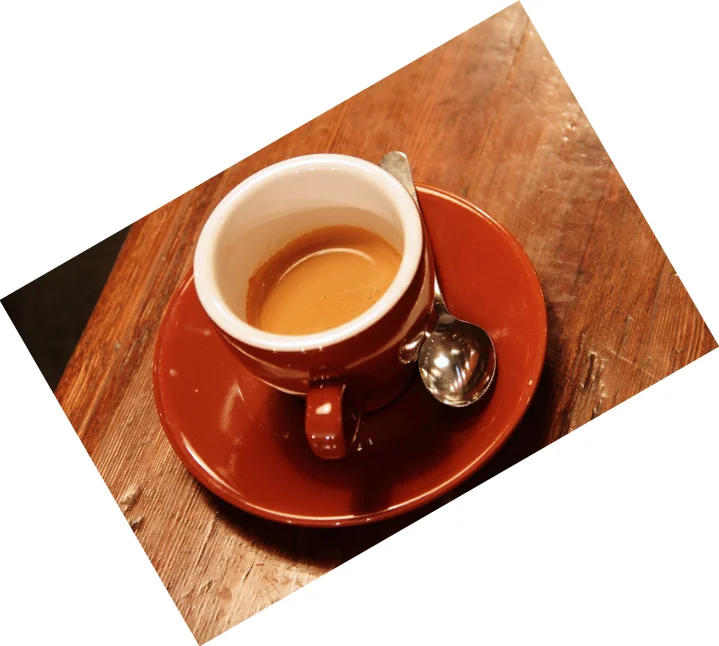
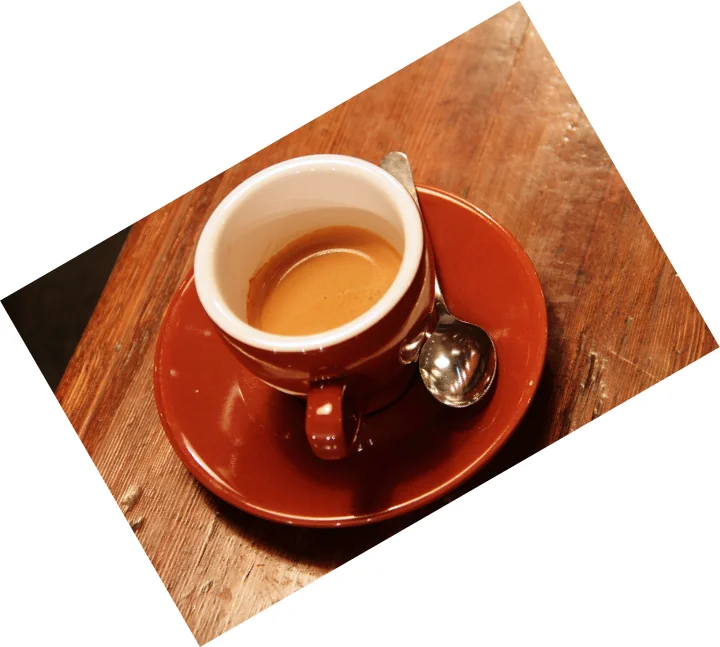
fix(pdi): corregir precision de la guia 1.3 detectada en revision
Revision propia del PR #114:
- cv2.rectangle incluye el punto final y el slicing no: el marco del
  recorte usaba (x2, y2) y quedaba 1 px fuera de la zona; ahora usa
  (x2 - 1, y2 - 1) y lo explica. Se regenera la imagen.
- Rotar sin perder esquinas truncaba el lienzo con int() y las puntas
  quedaban hasta 0,31 px fuera; se usa math.ceil (720 x 647) y se
  regenera la imagen.
- El paso 4 del ejercicio nombraba cafe_miniatura.png pero el codigo
  guarda cafe-miniatura.png.
- La pregunta sobre fotos verticales pedia adaptar una solucion que ya
  funciona sin cambios; se reformula.
- Se aclara que cv2.imread devuelve None, se agrega una nota sobre
  recortes fuera de los limites y se corrige el texto alternativo
  del recorte.

Imagenes regeneradas con OpenCV 4.10.0, la version minima del curso.

Refs #101

diff --git a/data/core/cursos/procesamiento-imagenes-python-opencv/lecciones/cap-1-3-transformaciones-geometricas-operaciones.md b/data/core/cursos/procesamiento-imagenes-python-opencv/lecciones/cap-1-3-transformaciones-geometricas-operaciones.md
@@ -26,6 +26,8 @@ print(f"Ancho: {ancho} px, alto: {alto} px, canales: {canales}")
 # Ancho: 600 px, alto: 400 px, canales: 3
 ```
 
+Para abreviar, los bloques siguientes omiten la comprobación de `None`. En tus programas conviene mantenerla, porque `cv2.imread` no lanza un error si no encuentra el archivo: devuelve `None`, y el fallo aparece recién en la línea siguiente, con un mensaje confuso.
+
 El origen de coordenadas `(0, 0)` está en la **esquina superior izquierda**. La coordenada `x` crece hacia la derecha y la `y` crece hacia abajo. Tené presente este detalle, porque OpenCV usa dos convenciones distintas según la función:
 
 | Contexto | Orden | Ejemplo |
@@ -120,9 +122,10 @@ taza = imagen[y1:y2, x1:x2].copy()
 print("Recorte:", taza.shape)  # (290, 260, 3)
 
 # Para visualizar qué se recortó, se marca la zona sobre una copia de la original.
-# cv2.rectangle recibe los puntos como (x, y).
+# cv2.rectangle recibe los puntos como (x, y) e incluye el punto final,
+# mientras que el slicing lo excluye: por eso se usa x2 - 1 e y2 - 1.
 marcada = imagen.copy()
-cv2.rectangle(marcada, (x1, y1), (x2, y2), (0, 255, 0), 3)
+cv2.rectangle(marcada, (x1, y1), (x2 - 1, y2 - 1), (0, 255, 0), 3)
 
 cv2.imwrite("cafe-zona-recorte.png", marcada)
 cv2.imwrite("cafe-recorte-taza.png", taza)
@@ -134,9 +137,11 @@ cv2.imwrite("cafe-recorte-taza.png", taza)
 
 **Después:** el recorte de 260 × 290 px.
 
-![Recorte que muestra solo la taza de café](/static/media/cursos/pdi/cafe-recorte-taza.webp)
+![Recorte centrado en la taza de café, con parte del plato y de la cuchara](/static/media/cursos/pdi/cafe-recorte-taza.webp)
 
 > **¿Por qué `.copy()`?** El slicing de NumPy no crea una imagen nueva: devuelve una *vista* que comparte memoria con la original. Si dibujás sobre un recorte sin `.copy()`, también modificás la imagen original. Usá `.copy()` cada vez que vayas a editar el recorte por separado.
+
+> **Recortes fuera de los límites.** NumPy no avisa si el rango se sale de la imagen: `imagen[300:500, 500:700]` devuelve un recorte de 100 × 100 px en lugar de 200 × 200, y un índice negativo cuenta desde el final. Si las coordenadas se calculan (por ejemplo, alrededor de un punto), limitálas antes de recortar con `x1 = max(0, x1)` y `x2 = min(ancho, x2)`, y lo mismo en `y`, y comprobá el `shape` del resultado.
 
 ### Rotación con matrices afines
 
@@ -163,9 +168,11 @@ cv2.imwrite("cafe-rotada.png", rotada)
 
 #### Rotar sin perder las esquinas
 
-Para conservar toda la imagen hay que calcular un lienzo más grande y desplazar la matriz para que el resultado quede centrado en él. El nuevo ancho y el nuevo alto salen del seno y el coseno del ángulo, que ya están dentro de la matriz:
+Para conservar toda la imagen hay que calcular un lienzo más grande y desplazar la matriz para que el resultado quede centrado en él. El nuevo ancho y el nuevo alto salen del seno y el coseno del ángulo, que ya están dentro de la matriz. Se redondean hacia arriba con `math.ceil`: si se truncaran con `int()`, las puntas de la imagen rotada podrían quedar fuera del lienzo por una fracción de píxel.
 
 ```python
+import math
+
 import cv2
 
 imagen = cv2.imread("cafe.png")
@@ -175,8 +182,8 @@ matriz = cv2.getRotationMatrix2D(centro, 30, 1.0)
 
 coseno = abs(matriz[0, 0])
 seno = abs(matriz[0, 1])
-nuevo_ancho = int(alto * seno + ancho * coseno)
-nuevo_alto = int(alto * coseno + ancho * seno)
+nuevo_ancho = math.ceil(alto * seno + ancho * coseno)  # 719,6 → 720
+nuevo_alto = math.ceil(alto * coseno + ancho * seno)   # 646,4 → 647
 
 # Desplazar la imagen para que quede centrada en el lienzo nuevo
 matriz[0, 2] += nuevo_ancho / 2 - centro[0]
@@ -185,14 +192,14 @@ matriz[1, 2] += nuevo_alto / 2 - centro[1]
 rotada_completa = cv2.warpAffine(
     imagen, matriz, (nuevo_ancho, nuevo_alto), borderValue=(255, 255, 255)
 )
-print("Rotada completa:", rotada_completa.shape)  # (646, 719, 3)
+print("Rotada completa:", rotada_completa.shape)  # (647, 720, 3)
 
 cv2.imwrite("cafe-rotada-completa.png", rotada_completa)
 ```
 
 ![Foto rotada 30 grados sobre un lienzo más grande con fondo blanco, sin perder ninguna esquina](/static/media/cursos/pdi/cafe-rotada-completa.webp)
 
-*Rotada 30° en un lienzo de 719 × 646 px con fondo blanco (`borderValue`). No se pierde ninguna parte de la foto.*
+*Rotada 30° en un lienzo de 720 × 647 px con fondo blanco (`borderValue`). No se pierde ninguna parte de la foto.*
 
 Para giros de 90° o 180° conviene `cv2.rotate`, que es exacto y no interpola:
 
@@ -227,7 +234,7 @@ Una tienda necesita una miniatura **cuadrada de 200 × 200 px** de cada foto de 
 1. Recortá el **cuadrado central más grande** posible. Su lado es la medida menor entre el ancho y el alto.
 2. Reducí ese cuadrado a **200 × 200 px** con la interpolación adecuada para reducir.
 3. Girá el resultado **90° en sentido horario**.
-4. Comprobá con `assert` que la miniatura mide 200 × 200 px y tiene 3 canales, y guardala como `cafe_miniatura.png`.
+4. Comprobá con `assert` que la miniatura mide 200 × 200 px y tiene 3 canales, y guardala como `cafe-miniatura.png`.
 
 Intentá resolverlo antes de mirar la solución.
 
@@ -265,7 +272,7 @@ print("Miniatura lista:", miniatura.shape)  # (200, 200, 3)
 
 - ¿Qué pasaría si en el paso 2 redimensionaras la foto completa a 200 × 200 sin recortar antes?
 - ¿Por qué en el paso 3 conviene `cv2.rotate` en lugar de `cv2.getRotationMatrix2D` con 90°?
-- ¿Cómo adaptarías la solución para que funcione con una foto vertical, más alta que ancha?
+- ¿La solución funciona sin cambios con una foto vertical, más alta que ancha? ¿Qué valores toman `y1` y `x1` en ese caso?
 
 ### Resumen
 
